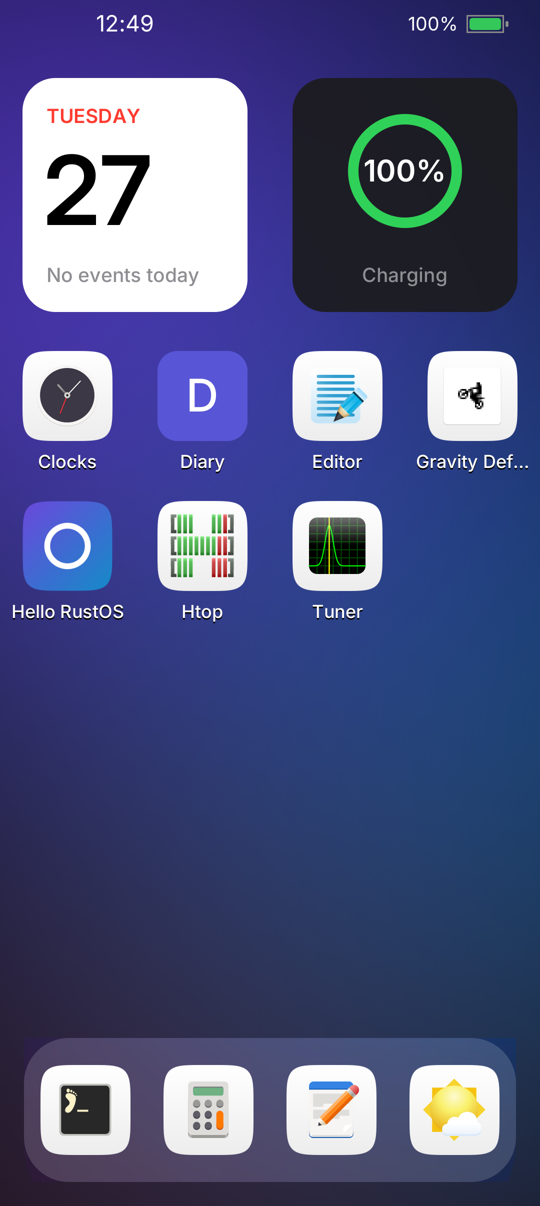
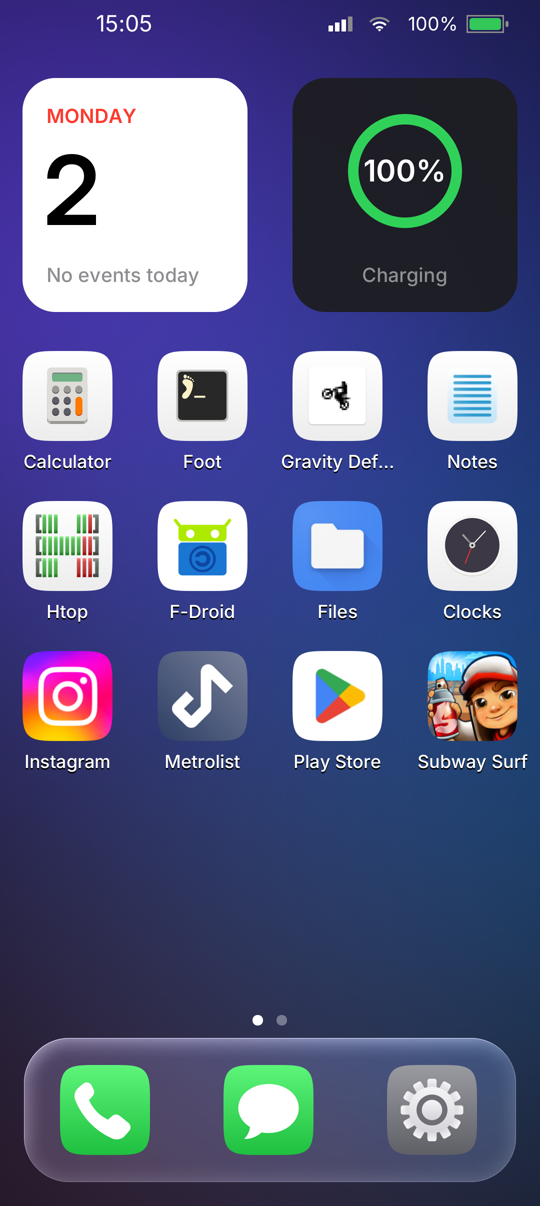
profile: Continuity, the PC desktop, Liquid Glass
New screenshots: the phone's lock screen and home in Liquid Glass, pairing
with a PC, and the PC image (in a VM, not WSL any more): the desktop
with Handoff from the phone, Spotlight, Continuity in Settings and a
phone's message on the PC. What is in it now, and what is next.

diff --git a/profile/README.md b/profile/README.md
@@ -30,39 +30,77 @@ screenshots are from that phone, running Rust OS.
 
 ## On a PC
 
-The same shell and apps on a wider screen: home lays out for it, apps open
-as windows, and a mouse and keyboard work as on any desktop. These
-screenshots, and the new Settings, are the shell running in a window on
-Windows (WSL), which is also how we work on the UI without a device.
+The same shell and apps on a PC: a desktop with windows, a menu bar, a dock
+of open apps, Spotlight, Mission Control, Spaces and a Notification Centre,
+under Liquid Glass. The PC image boots Android's userspace too, and Steam
+runs from Flathub. These screenshots are the PC image running in a virtual
+machine.
 
 <table>
   <tr>
-    <td><img src="screenshots/pc-home.png" width="420" alt="Home on a PC"></td>
-    <td><img src="screenshots/pc-settings.png" width="420" alt="Settings as a window on a PC"></td>
-    <td><img src="screenshots/settings.png" width="140" alt="Settings on a phone"></td>
+    <td><img src="screenshots/pc-home.png" width="420" alt="The desktop, with Handoff from the phone in the dock"></td>
+    <td><img src="screenshots/pc-spotlight.png" width="420" alt="Spotlight over an app"></td>
   </tr>
   <tr>
-    <td align="center">Home on a PC</td>
-    <td align="center">Settings, as a window</td>
-    <td align="center">Settings on a phone</td>
+    <td align="center">The desktop (Handoff from the phone at the dock's end)</td>
+    <td align="center">Spotlight, in glass, over an app</td>
   </tr>
 </table>
+
+A tablet can have the desktop too, by touch: its device says so, or the
+user picks it in Settings.
+
+## Continuity
+
+A phone and a PC on the same network act as one. They find each other, pair
+once (both screens show the same code), and talk over TLS, each device known
+by its own certificate. Every part can be turned off in Settings.
+
+- **Clipboard**: copy on one, paste on the other
+- **Notifications**: the phone's show on the PC, and can be answered there
+- **Texts**: the phone's conversations in the PC's Messages, sent through the phone
+- **Files**: sent either way, into Downloads
+- **Handoff**: the app open on the phone waits at the end of the PC's dock
+- **Personal Hotspot**: turned on and joined from the PC's Wi-Fi list
+
+<table>
+  <tr>
+    <td><img src="screenshots/continuity-pair.png" width="200" alt="The phone asked to pair with a PC"></td>
+    <td><img src="screenshots/pc-continuity.png" width="420" alt="Continuity in Settings on the PC"></td>
+    <td><img src="screenshots/pc-notification.png" width="420" alt="A phone's message on the PC's lock screen"></td>
+  </tr>
+  <tr>
+    <td align="center">Pairing, on the phone</td>
+    <td align="center">Continuity in Settings</td>
+    <td align="center">A phone's message on the PC</td>
+  </tr>
+</table>
+
+Next: one mouse and keyboard across the PC, a tablet and the phone
+(Universal Control), the phone's screen and apps in a window on the PC,
+and a partitioning installer for dual boot.
 
 ## What is in it
 
 **The shell** is a Wayland compositor built on [Smithay](https://github.com/Smithay/smithay),
 drawn with OpenGL ES:
 
-- Lock screen, home with widgets and a glass dock, Control Center over
-  real-time blur, an app switcher, and apps that open from their icons with
-  spring animations
+- Lock screen with widgets and Live Activities, an always-on display, home
+  with widgets, Control Center, an app switcher, and apps that open from
+  their icons with spring animations, all in Liquid Glass
 - On a phone, full-screen apps and swipe gestures; on a tablet or PC, a
-  centred home, a dock sized to its apps, and apps as windows
-- Touch, an on-screen keyboard, a mouse and a keyboard
-- GTK and other Wayland apps, and Android apps
+  desktop: windows that snap and tile, a menu bar, a dock of open apps,
+  Spotlight, Mission Control, Spaces, a Notification Centre, screenshots
+  of a region, drag and drop between windows
+- Touch, an on-screen keyboard with suggestions, autocorrect and emoji, a
+  mouse and touchpad gestures, and a keyboard
+- Focus, Night Shift, Screen Time, a screen reader
+- GTK and other Wayland apps, Flatpak apps (Steam), X11 apps through
+  Xwayland, and Android apps
 
-**Our own apps**, in Rust with GTK 4 and libadwaita: Settings, Phone and
-Messages.
+**Our own apps and services**, in Rust with GTK 4 and libadwaita:
+Settings, Phone and Messages, a notification server, and `linkd`, which
+links a user's devices (Continuity).
 
 **Android apps run natively.** Android's userspace (ART, the framework and
 its services) is built from AOSP and runs directly on the host, without
